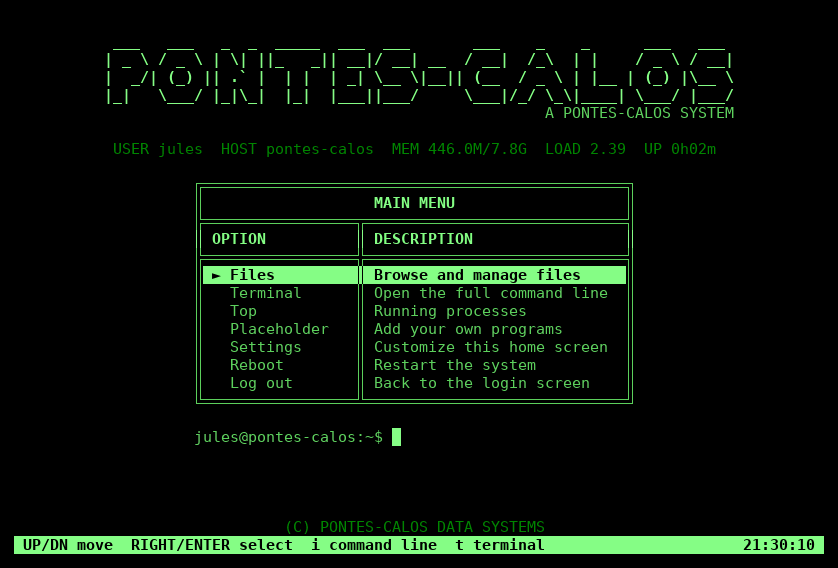
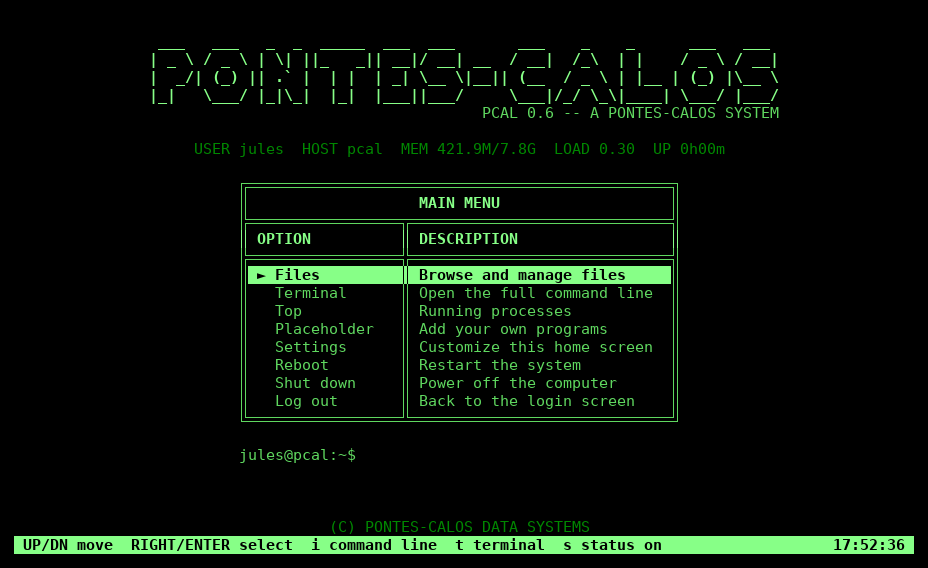
Refresh the README for PCal 0.6
Describes what PCal is and has now (menu, command line, file manager,
status panel, RetroLogin, installer, looks), how to install it from the
ISO, the keys, the repository layout, building (program, package, ISO)
and developing. Roadmap updated. Screenshots and GIFs re-recorded from
the current code; new status panel and installer pictures.

Claude-Session: https://claude.ai/code/session_01CLUJ8xdDf2R379K8KGaaJJ

diff --git a/README.md b/README.md
@@ -1,66 +1,103 @@
-# Pontes-Calos (PCal v0.6)
+# PCal (Pontes-Calos)
 
-A lightweight, speed-optimized Linux (Alpine-based) with a retro green-CRT, arrow-key home menu and login screen.
+A lightweight Linux, built on Alpine, that boots into a retro green-phosphor terminal:
+a boxed arrow-key menu, its own login screen and installer, and CRT effects, all in text mode.
+No desktop, no window system: fast, and easy to understand.
 
-![The Pontes-Calos main menu](docs/media/menu-idle.png)
+![The PCal main menu](docs/media/menu-idle.png)
 
 | Startup | Shutdown |
 |---|---|
 | ![Startup: the picture opens from a bright line, the boot screen types its checks, then the menu appears](docs/media/startup.gif) | ![Shutdown: moving to Log out with the phosphor afterglow, then the picture collapses to a line and a dot](docs/media/shutdown.gif) |
 
-*Recorded from the real program with Settings > Effects set to FULL.*
+*Recorded from the real program with Settings › Effects set to FULL.*
 
-## Components
+## What's in it
 
-- [`retromenu/`](retromenu/): the programs. Pure Python stdlib.
-  - `retromenu.py`: the home menu (file manager, command line, terminal, monitor, plugins, settings, reboot)
-  - `retrologin.py`: the login screen on tty1
-  - `pontes.py`: one program that runs both (`pontes menu`, `pontes login`), the way busybox does
-- [`distro/`](distro/): installer that turns a fresh Alpine install into Pontes-Calos.
-- [`build/`](build/): turns the Python code into a self-contained program (no Python needed).
-- [`packaging/alpine/`](packaging/alpine/): turns the release build into an Alpine package (`pcal-*.apk`).
-- [`iso/`](iso/): builds the bootable PCal ISO (live menu + Install PCal).
-- [`tests/`](tests/): smoke test that drives the real program through a pseudo-terminal.
+- **Home menu**: files, terminal, process monitor, your own programs (plugins), settings, reboot, shut down, log out.
+- **Command line under the menu**: press `i`, type a command, see its output without leaving the menu. Programs that need the whole screen (`vim`, `top`, `ssh`...) get it automatically.
+- **File manager**: `ls -l` style list with permissions, size and date; open, view, edit, rename, delete, file details, terminal here.
+- **SYSTEM STATUS panel** (`s`): CPU, memory and disk bars, load, network address, uptime, battery and temperature on laptops.
+- **RetroLogin**: the login screen on tty1. It checks your password like the normal login, and slows down guessing.
+- **PCal installer** on the ISO: Alpine's own setup with PCal's screens.
+- **Looks**: green, amber, white or cyan themes; double, single or ASCII boxes; CRT power on/off, phosphor afterglow, typewriter text; on the real Linux console, PCal repaints the console's own colours.
+- **Light**: the release build needs no Python on the system, and the status panel reads `/proc` and `/sys` without starting programs.
 
-## Develop with Python, release a program
+![The SYSTEM STATUS panel next to the menu](docs/media/status-panel.png)
 
-**While developing**, just run the source, no build needed:
+## Install PCal
 
-```sh
-python3 retromenu/retromenu.py           # the menu
-python3 retromenu/retrologin.py --login-cmd /bin/true   # the login screen, safe to try
-python3 tests/smoke_test.py python3 retromenu/pontes.py  # quick check before a PR
-```
+1. Build the ISO (see [Building](#building)), or take one from a release.
+2. Boot it in a virtual machine or from a USB stick: it starts straight into the PCal menu.
+3. Choose **Install PCal** and answer the questions: keyboard, computer name, time zone, network, SSH, your user and password, root password, disk (type `YES` to erase it).
+4. Remove the ISO and reboot. On the first start PCal finishes its setup by itself, then shows the login screen.
 
-**To release**, bump `VERSION` in `retromenu/retromenu.py`, merge, then tag:
+![The installer's summary screen (from a dry run)](docs/media/installer-summary.png)
 
-```sh
-git tag v0.4 && git push origin v0.4
-```
+Already running Alpine? [`distro/install.sh`](distro/README.md) (`pcal-setup`) turns an existing install into PCal.
 
-GitHub Actions then builds and tests:
+## Keys
 
-| File | For |
+| Where | Keys |
 |---|---|
-| `pontes-calos-linux-x86_64-musl.tar.gz` | Pontes-Calos / Alpine. This is what the installer downloads. |
-| `pontes-linux-x86_64-musl` | single file for Alpine: copy and run |
-| `pontes-linux-x86_64-glibc` | single file for Debian, Ubuntu, Fedora, Arch... |
-| `pontes-calos-linux-x86_64-glibc.tar.gz` | folder version of the same |
-| `*.sha256` | checksums (the installer checks them) |
+| Everywhere | `↑` `↓` move (also `k` `j`) · `→` / `Enter` open (also `l`) · `←` / `Esc` back (also `h`) |
+| Main menu | `i` type a command · `t` full terminal · `s` show/hide SYSTEM STATUS |
+| Command line | `Enter` run · `!cmd` run in the full terminal · `↑` `↓` history · `PgUp` `PgDn` scroll output · `Esc` back to the menu |
+| File manager | `Enter` actions · `→` open folder · `←` up · `.` hidden files · `t` terminal here · `q` back |
+| Login screen | `Tab` / `Enter` next field · `Esc` clear · `Alt+F2` the normal console login |
 
-and publishes them as a GitHub Release.
+## Repository
 
-The **folder build** (`.tar.gz`) starts fastest. It's what the distro uses, because the login screen and menu start again after every logout. The **single file** unpacks itself to `/tmp` on every start, so it's a bit slower, but you can copy one file anywhere and run `./pontes menu`.
+| Folder | What |
+|---|---|
+| [`retromenu/`](retromenu/) | the programs, pure Python standard library: `retromenu.py` (menu), `retrologin.py` (login screen), `retroinstall.py` (installer), `pontes.py` (one program that runs them all, like busybox) |
+| [`build/`](build/) | turns the Python code into a self-contained program (PyInstaller) |
+| [`packaging/alpine/`](packaging/alpine/) | turns that program into the Alpine package `pcal-*.apk` |
+| [`iso/`](iso/) | builds the bootable PCal ISO with Alpine's `mkimage` |
+| [`distro/`](distro/) | `install.sh` = `pcal-setup`: login screen, menu autostart, console font, doas rule |
+| [`tests/`](tests/) | smoke test that drives the real program through a pseudo-terminal |
 
-Building on your own machine: just `sh build/build.sh`. The first run sets up PyInstaller in `build/.venv` by itself (needs internet once). On Alpine, first install the build tools: `apk add python3 py3-pip binutils build-base zlib-dev python3-dev`. A build only runs on the same C library it was made on: build on Alpine for musl, on Debian/Ubuntu for glibc.
+## Building
+
+Everything is built on Alpine (a VM is fine), as your normal user. The guides have the one-time setup.
+
+```sh
+sh build/build.sh                   # 1. the program (no Python needed to run it)
+sh packaging/alpine/build-apk.sh    # 2. the pcal package          → dist/apk/pcal/
+sh iso/build-iso.sh --virt          # 3. the ISO for VMs           → dist/iso/pcal-virt-*.iso
+sh iso/build-iso.sh                 #    or for real PCs (needs ~6 GB free while building)
+```
+
+Details: [`build/build.sh`](build/build.sh) · [package](packaging/alpine/README.md) · [ISO](iso/README.md).
+
+## Developing
+
+Run the source directly: no build needed.
+
+```sh
+python3 retromenu/retromenu.py                            # the menu
+python3 retromenu/retrologin.py --login-cmd /bin/true     # the login screen, safe to try
+python3 retromenu/pontes.py install --dry-run             # the installer, changes nothing
+python3 tests/smoke_test.py python3 retromenu/pontes.py   # quick check before a PR
+```
+
+A good setup is two VMs: a **dev VM** where you build (with the normal login on tty1, so a login-screen
+bug can't lock you out: `doas pcal-setup --uninstall`), and a **test VM** installed from the ISO.
+
+To release: bump `VERSION` in `retromenu/retromenu.py`, build, and publish `dist/release/*` as a GitHub
+Release tagged `vVERSION`. The installer downloads `pontes-calos-linux-x86_64-musl.tar.gz` from there.
 
 ## Roadmap
 
-1. ~~RetroMenu as a standalone app~~
-2. ~~Alpine install: login screen on tty1, then RetroMenu (`distro/install.sh`)~~
+1. ~~Retro menu as a standalone program~~
+2. ~~Login screen on tty1, menu after login~~
 3. ~~Self-contained release program (no Python on the system)~~
-4. Bootable PCal ISO built with `mkimage` (live menu + Install PCal); next: one retro install screen
-5. ARM build (Raspberry Pi)
+4. ~~Alpine package and bootable ISO~~
+5. ~~PCal installer on the ISO~~
+6. Font size setting for big screens, keyboard layout in Settings, help card (`F1`)
+7. Wi-Fi in the installer and the menu
+8. ARM build (Raspberry Pi)
+9. A real CRT renderer: glow, scanlines and curvature on the bare console
 
 ## License
 
